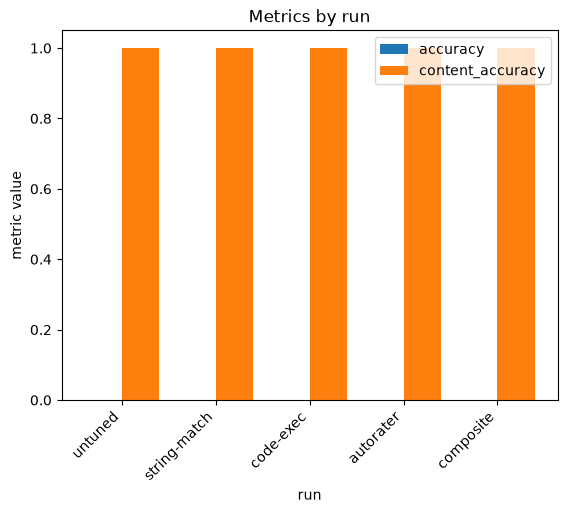
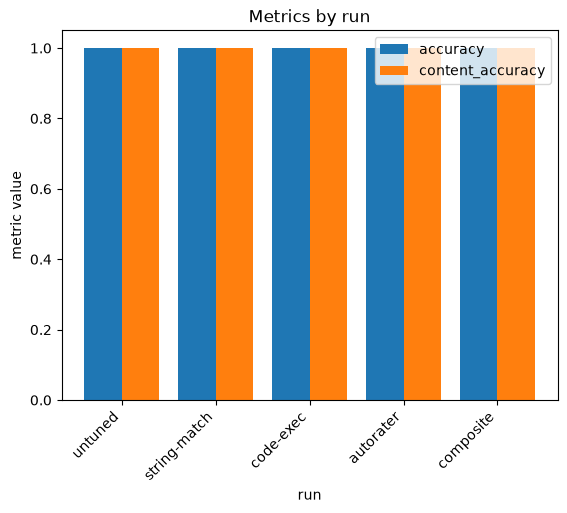
docs(doe): correct reward-shape DOE results after eval fix
Re-scored all four endpoints + baseline with the systemInstruction replayed:
every run now scores accuracy=1.000 / content_accuracy=1.000. Still a null result,
but for the honest reason — the untuned gemini-3.5-flash already saturates the task
(content and marker) given its training system instruction, leaving no headroom for
any reward shape. Correct the earlier writeup that read the 0.000 marker accuracy as
a failed contract transfer, document train/eval prompt parity as the key lesson, and
regenerate metrics.png.

diff --git a/docs/doe/rlft-reward-shapes/README.md b/docs/doe/rlft-reward-shapes/README.md
@@ -53,6 +53,19 @@ already have a finished job.
 
 ### Operational gotchas (learned live)
 
+- **Eval must replay the training framing (the biggest one).** These RLFT records
+  are trained under a **system instruction** ("…end with the final answer on its
+  own line as 'Answer: `<number>`'") that carries the very output contract the
+  reward scores. The first version of this eval sent only the bare user question
+  and **dropped that system instruction** — so the model answered in free prose,
+  never emitted the marker, and scored `accuracy` = 0.000 across *every* shape.
+  That was a **measurement artifact, not a training outcome**: an A/B probe of the
+  same `code-exec` endpoint scored 0.000 on bare prompts and 1.000 once the system
+  instruction was restored. The fix (`rlft/evaluate.py`) threads each record's
+  `systemInstruction` through `run_rlft_eval` → `generate_fn`, keeping inference
+  faithful to training. **Lesson: an RLFT eval must reproduce the training prompt
+  exactly — same system instruction, same framing — or it measures the mismatch,
+  not the model.**
 - **Metric semantics — two scores, one generation pass.** The offline eval reports
   both:
   - `accuracy` — **reward-based / marker-gated**: correct *and* in the
@@ -61,15 +74,12 @@ already have a finished job.
   - `content_accuracy` — **marker-agnostic**: does the ground-truth number appear
     anywhere in the reply (`rlft.evaluate.content_correct`)?
 
-  They diverge whenever a model gets the math right but omits the `Answer:` marker.
-  Live, **every** run — the untuned baseline and all four tuned shapes — scored
-  `accuracy` = 0.0 / `content_accuracy` = 1.0: the models answered every held-out
-  problem **correctly in prose** (`"the sum is **55**"`) but none emitted the
-  marker at inference. Reporting both columns is what surfaces this: a single
-  marker-gated number would read as a flat failure, when in fact the content is
-  perfect. (Note this even held for `code-exec`/`composite`, whose reward *is* the
-  marker-gated correctness check — so the marker was reinforced in training yet did
-  not transfer to the marker-free test prompts.)
+  They diverge whenever a model gets the math right but omits the `Answer:` marker
+  — exactly the failure mode the dropped-system-instruction bug above produced
+  (content 1.0, marker 0.0). Once the eval replays the system instruction, both
+  land at 1.0 here, so reporting both columns is what let us catch the artifact:
+  a single marker-gated number would have read as a flat failure while the content
+  was in fact perfect.
 - **Tuned-endpoint location.** A tuned Gemini 3.x model is deployed to the `us`
   (or `eu`) **multi-region** endpoint, not the `us-central1` region the job ran
   in. Inference must target the endpoint's own location or it 404s — the example
@@ -83,38 +93,44 @@ already have a finished job.
 
 > **Status: complete.** All four RLFT jobs finished (`gemini-3.5-flash`,
 > `us-central1`, held-out split of **n = 6**). Scored offline against each tuned
-> endpoint plus the untuned baseline; `content_accuracy` is marker-agnostic.
+> endpoint plus the untuned baseline, **replaying each record's training system
+> instruction** (see the gotcha above); `content_accuracy` is marker-agnostic.
 
 | Reward shape | `accuracy` (marker) | `content_accuracy` | vs. untuned |
 |---|---|---|---|
-| untuned baseline | 0.000 | 1.000 | — |
-| `string-match` | 0.000 | 1.000 | ±0.000 |
-| `code-exec` | 0.000 | 1.000 | ±0.000 |
-| `autorater` | 0.000 | 1.000 | ±0.000 |
-| `composite` | 0.000 | 1.000 | ±0.000 |
+| untuned baseline | 1.000 | 1.000 | — |
+| `string-match` | 1.000 | 1.000 | ±0.000 |
+| `code-exec` | 1.000 | 1.000 | ±0.000 |
+| `autorater` | 1.000 | 1.000 | ±0.000 |
+| `composite` | 1.000 | 1.000 | ±0.000 |
 
-![Reward-shape metrics: a grouped bar chart over untuned/string-match/code-exec/autorater/composite showing content_accuracy at 1.0 for every run and marker-gated accuracy at 0.0 for every run.](metrics.png)
+![Reward-shape metrics: a grouped bar chart over untuned/string-match/code-exec/autorater/composite showing both marker-gated accuracy and content_accuracy at 1.0 for every run.](metrics.png)
 
 ### Read this honestly — it's a null result, and that's the finding
 
-The table is **flat**: every run scores identically (content 1.0, marker 0.0), so
-`max(accuracy)` picks `string-match = 0.000` only as an arbitrary tie-break. There
-is **no best reward shape** here — the DOE did not discriminate. Two reasons, both
-worth internalizing before running a reward-shape sweep:
+The table is **flat**: every run scores 1.000 on both metrics, so `max(accuracy)`
+picks `string-match` only as an arbitrary tie-break. There is **no best reward
+shape** here — the DOE did not discriminate. The reason is worth internalizing
+before running a reward-shape sweep:
 
-1. **The base model already aces the task.** The untuned `gemini-3.5-flash` baseline
-   already scores `content_accuracy` = 1.000 — it solves every held-out problem
-   before any tuning. With no content headroom, no reward shape *can* show lift on
-   this dataset.
-2. **The marker contract never reaches the test.** Marker-gated `accuracy` is 0.000
-   everywhere, including `code-exec`/`composite` (whose reward *is* the marker-gated
-   check). The `Answer: <n>` format the parser needs isn't emitted on the
-   marker-free test prompts — training reinforced it, but it didn't transfer.
+- **The base model already aces the task — content *and* format.** Given the same
+  system instruction it was tuned under, the untuned `gemini-3.5-flash` baseline
+  already scores `accuracy` = 1.000 *and* `content_accuracy` = 1.000: it solves
+  every held-out problem **and** emits the `Answer: <n>` marker before any tuning.
+  With no headroom on either axis, no reward shape *can* show lift on this dataset.
 
-**Methodology takeaway:** a reward-shape DOE only measures something when the task
-has genuine content headroom for the base model *and* the eval prompt matches the
-output contract the reward trains (here, ask for the `Answer:` marker, or score
-correctness marker-agnostically as `content_accuracy` does). The small split
-(n = 6) compounds both effects. The mechanics this example demonstrates (per-shape
-single-run sweeps, driver-owned labels, idempotent reuse, dual-metric scoring) are
+> **Correcting an earlier writeup.** An initial version of this doc reported
+> `accuracy` = 0.000 for every run and concluded the marker contract "didn't
+> transfer to the test." **That was wrong** — it was the dropped-system-instruction
+> measurement bug (see the first gotcha), not a training outcome. Once the eval
+> replays the system instruction, the marker is emitted perfectly everywhere. The
+> honest finding is a null result for a *different* reason: the base model already
+> saturates the task.
+
+**Methodology takeaway:** a reward-shape DOE only measures something when (a) the
+task has genuine headroom for the base model, and (b) the **eval reproduces the
+training framing** — same system instruction — so you measure the model, not a
+prompt mismatch. The small split (n = 6) compounds the ceiling effect. The
+mechanics this example demonstrates (per-shape single-run sweeps, driver-owned
+labels, idempotent reuse, dual-metric scoring, **train/eval prompt parity**) are
 the reusable part; the *numbers* are a cautionary tale, not a leaderboard.
